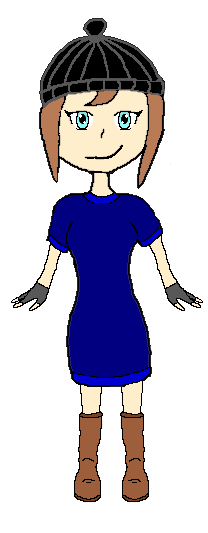
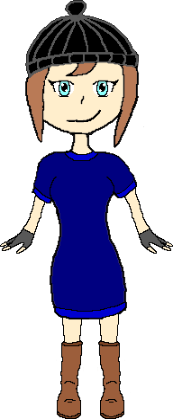
DA07

diff --git a/DA07/js/City.js b/DA07/js/City.js
@@ -4,6 +4,8 @@ function addBlock(x, y, ground){
     game.layer.setSize(64, 64);
     game.layer.setScale(2);
 }
+var x = 100;
+var y = 400;
 
 class City extends Phaser.Scene{
 
@@ -17,10 +19,10 @@ class City extends Phaser.Scene{
             this.city = this.BG1.create(200+(i*400), 300, 'cityBG');
             this.city.setScale(1/2);
         }
-        this.house = this.physics.add.sprite(600, 360, 'chouse');
+        this.house = this.physics.add.sprite(200, 360, 'chouse');
         this.physics.world.setBounds(0, 0, 1690, 600);
         this.cameras.main.setBounds(0, 0, 1600, 600);
-        this.boots = this.physics.add.sprite(100, 400, 'boots');
+        this.boots = this.physics.add.sprite(x, y, 'boots');
         this.boots.setScale(1/2);
         this.boots.setCollideWorldBounds(true);
         this.facing = "right";
@@ -31,17 +33,6 @@ class City extends Phaser.Scene{
         this.ground = this.physics.add.staticGroup();
         for(var i = 0; i < 1728/64; i++){
             this.layer = this.ground.create(32+(i*64), 568, 'brick');
-            this.layer.setSize(64, 64);
-            this.layer.setScale(2);
-        }
-        this.layer1 = this.ground.create(0, 550, 'brick')
-        this.layer1.setSize(64, 64);
-        this.layer1.setScale(2);
-        this.layer2 = this.ground.create(200, 500, 'brick')
-        this.layer2.setSize(64, 64);
-        this.layer2.setScale(2);
-        for(var i = 0; i < 2; i++){
-            this.layer = this.ground.create(400+(i*64), 400, 'brick');
             this.layer.setSize(64, 64);
             this.layer.setScale(2);
         }
@@ -85,12 +76,16 @@ class City extends Phaser.Scene{
             this.boots.setVelocityY(-500);
         }
         if(this.boots.x >= 1640){
+            x = 400;
+            y = 100;
             this.scene.start('Overworld');
         }
     }
     main(){
         if(this.interactKey.isDown){
-            this.scene.start('MainMenu');
+            x = this.boots.x;
+            y = this.boots.y;
+            this.scene.start('Building');
         }
     }
 }

diff --git a/DA07/js/Building.js b/DA07/js/Building.js
@@ -1,15 +1,15 @@
 "use strict";
 
-class Tent extends Phaser.Scene{
+class Building extends Phaser.Scene{
 
     constructor(){
-        super('Tent');
+        super('Building');
     }
 
     create() {
         //this.add.text(50, 100, "Congrats you have made it through the city and forest\nCome back next week for a content update", { font: '24px Arial', fill: '#000000' });
         //this.add.text(50, 400, "Enter house to go\nback to Main Menu", { font: '24px Arial', fill: '#000000' });
-        this.tent = this.add.image(400, 300, 'tin');
+        this.tent = this.add.image(400, 300, 'hin');
         this.ground = this.physics.add.staticGroup();
         this.physics.world.setBounds(0, 0, 800, 800);
         this.cameras.main.setBounds(0, 0, 800, 600);
@@ -33,7 +33,7 @@ class Tent extends Phaser.Scene{
             this.playerMovementManager();
         }
         if(this.boots.y > 700){
-            this.scene.start('Lake');
+            this.scene.start('City');
         }
         
 
@@ -85,5 +85,11 @@ class Tent extends Phaser.Scene{
         }else{
             this.boots.anims.play("boot_side", true);
         }
+    }
+    main(){
+        if(this.interactKey.isDown){
+           this.scene.start('MainMenu'); 
+        }
+        
     }
 }

diff --git a/DA07/js/Cave.js b/DA07/js/Cave.js
@@ -1,15 +1,15 @@
 "use strict";
 
-class Tent extends Phaser.Scene{
+class Cave extends Phaser.Scene{
 
     constructor(){
-        super('Tent');
+        super('Cave');
     }
 
     create() {
         //this.add.text(50, 100, "Congrats you have made it through the city and forest\nCome back next week for a content update", { font: '24px Arial', fill: '#000000' });
         //this.add.text(50, 400, "Enter house to go\nback to Main Menu", { font: '24px Arial', fill: '#000000' });
-        this.tent = this.add.image(400, 300, 'tin');
+        this.tent = this.add.image(400, 300, 'cin');
         this.ground = this.physics.add.staticGroup();
         this.physics.world.setBounds(0, 0, 800, 800);
         this.cameras.main.setBounds(0, 0, 800, 600);
@@ -33,7 +33,7 @@ class Tent extends Phaser.Scene{
             this.playerMovementManager();
         }
         if(this.boots.y > 700){
-            this.scene.start('Lake');
+            this.scene.start('Mountain');
         }
         
 
@@ -85,5 +85,11 @@ class Tent extends Phaser.Scene{
         }else{
             this.boots.anims.play("boot_side", true);
         }
+    }
+    main(){
+        if(this.interactKey.isDown){
+           this.scene.start('MainMenu'); 
+        }
+        
     }
 }

diff --git a/DA07/js/Forest.js b/DA07/js/Forest.js
@@ -4,6 +4,8 @@ function addBlock(x, y, ground){
     game.layer.setSize(64, 64);
     game.layer.setScale(2);
 }
+var x = 100;
+var y = 400;
 class Forest extends Phaser.Scene{
 
     constructor(){
@@ -18,10 +20,9 @@ class Forest extends Phaser.Scene{
             this.forest.setScale(1/2);
         }
         this.house = this.physics.add.sprite(500, 356, 'fhouse');
-        this.house.setScale(1/2);
         this.physics.world.setBounds(0, -200, 1690, 800);
         this.cameras.main.setBounds(0, 0, 1600, 600);
-        this.boots = this.physics.add.sprite(100, 400, 'boots');
+        this.boots = this.physics.add.sprite(x, y, 'boots');
         this.boots.setScale(1/2);
         this.boots.setCollideWorldBounds(true);
         this.facing = "right";
@@ -81,12 +82,16 @@ class Forest extends Phaser.Scene{
             this.boots.setVelocityY(-600);
         }
         if(this.boots.x >= 1640){
+            x = 100;
+            y = 400;
             this.scene.start('Overworld');
         }
     }
     main(){
         if(this.interactKey.isDown){
-            this.scene.start('MainMenu');
+            x = this.boots.x;
+            y = this.boots.y;
+            this.scene.start('Flower');
         }
     }
 }

diff --git a/DA07/js/Lake.js b/DA07/js/Lake.js
@@ -4,7 +4,8 @@ function addBlock(x, y, ground){
     game.layer.setSize(64, 64);
     game.layer.setScale(2);
 }
-
+var x = 100;
+var y = 400;
 class Lake extends Phaser.Scene{
 
     constructor(){
@@ -18,10 +19,9 @@ class Lake extends Phaser.Scene{
             this.lake.setScale(1/2);
         }
         this.house = this.physics.add.sprite(600, 360, 'lhouse');
-        this.house.setScale(1/2);
         this.physics.world.setBounds(0, 0, 1690, 600);
         this.cameras.main.setBounds(0, 0, 1600, 600);
-        this.boots = this.physics.add.sprite(100, 400, 'boots');
+        this.boots = this.physics.add.sprite(x, y, 'boots');
         this.boots.setScale(1/2);
         this.boots.setCollideWorldBounds(true);
         this.facing = "right";
@@ -75,11 +75,15 @@ class Lake extends Phaser.Scene{
             this.boots.setVelocityY(-600);
         }
         if(this.boots.x >= 1640){
+            x = 100;
+            y = 400;
             this.scene.start('Overworld');
         }
     }
     main(){
         if(this.interactKey.isDown){
+            x = this.boots.x;
+            y = this.boots.y;
             this.scene.start('Tent');
         }
     }

diff --git a/DA07/js/Preloader2.js b/DA07/js/Preloader2.js
@@ -27,7 +27,7 @@ class Preloader extends Phaser.Scene{
         this.load.image('grass', 'assets/Grass.png');
         this.load.image('brick', 'assets/Brick.png');
         this.load.image('sand', 'assets/Sand.png');
-        this.load.spritesheet('boots', 'assets/Boots walk.png', {frameWidth: 173, frameHeight: 419});
+        this.load.spritesheet('boots', 'assets/Bootswalk1.png', {frameWidth: 173, frameHeight: 419});
         this.load.image('girl', 'assets/Character.png');
         this.load.image('cityBG', 'assets/CityBG.png');
         this.load.image('forestBG', 'assets/ForestBG.png');
@@ -65,6 +65,12 @@ class Preloader extends Phaser.Scene{
         this.anims.create({
             key: "boot_side",
             frames: [ { key: 'boots', frame: 8 } ],
+            frameRate: 4,
+            repeat: -1
+        });
+        this.anims.create({
+            key: "boot_forward",
+            frames: [ { key: 'boots', frame: 9 } ],
             frameRate: 4,
             repeat: -1
         });

diff --git a/DA07/js/Flower.js b/DA07/js/Flower.js
@@ -1,15 +1,15 @@
 "use strict";
 
-class Tent extends Phaser.Scene{
+class Flower extends Phaser.Scene{
 
     constructor(){
-        super('Tent');
+        super('Flower');
     }
 
     create() {
         //this.add.text(50, 100, "Congrats you have made it through the city and forest\nCome back next week for a content update", { font: '24px Arial', fill: '#000000' });
         //this.add.text(50, 400, "Enter house to go\nback to Main Menu", { font: '24px Arial', fill: '#000000' });
-        this.tent = this.add.image(400, 300, 'tin');
+        this.tent = this.add.image(400, 300, 'fin');
         this.ground = this.physics.add.staticGroup();
         this.physics.world.setBounds(0, 0, 800, 800);
         this.cameras.main.setBounds(0, 0, 800, 600);
@@ -33,7 +33,7 @@ class Tent extends Phaser.Scene{
             this.playerMovementManager();
         }
         if(this.boots.y > 700){
-            this.scene.start('Lake');
+            this.scene.start('Forest');
         }
         
 

diff --git a/DA07/js/Mountain.js b/DA07/js/Mountain.js
@@ -4,6 +4,9 @@ function addBlock(x, y, ground){
     game.layer.setSize(64, 64);
     game.layer.setScale(2);
 }
+var x = 100;
+var y = 400;
+
 class Mountain extends Phaser.Scene{
 
     constructor(){
@@ -80,12 +83,16 @@ class Mountain extends Phaser.Scene{
             this.boots.setVelocityY(-600);
         }
         if( this.boots.x >= 1640){
+            x = 100;
+            y = 400;
             this.scene.start('Overworld');
         }
     }
     main(){
         if(this.interactKey.isDown){
-            this.scene.start('MainMenu');
+            x = this.boots.x;
+            y = this.boots.y;
+            this.scene.start('Cave');
         }
     }
 }

diff --git a/DA07/index.html b/DA07/index.html
@@ -18,6 +18,9 @@
 	<script type="text/javascript" src="js/Control.js"></script>
 	<script type="text/javascript" src="js/Overworld.js"></script>
 	<script type="text/javascript" src="js/Tent.js"></script>
+	<script type="text/javascript" src="js/Building.js"></script>
+	<script type="text/javascript" src="js/Flower.js"></script>
+	<script type="text/javascript" src="js/Cave.js"></script>
 	<script type="text/javascript" src="js/End.js"></script>
 	<!-- main.js must come last since it references the other ones. -->
 	<script type="text/javascript" src="js/main2.js"></script>

diff --git a/DA07/js/main2.js b/DA07/js/main2.js
@@ -40,6 +40,9 @@ game.scene.add( 'Mountain', new Mountain());
 game.scene.add( 'Overworld', new Overworld());
 game.scene.add('Control', new Control());
 game.scene.add('Tent', new Tent());
+game.scene.add('Building', new Building());
+game.scene.add('Flower', new Flower());
+game.scene.add('Cave', new Cave());
 game.scene.add('End', new End());
 //	Now start the Boot state.
 game.scene.start('Boot');

diff --git a/DA07/js/MainMenu2.js b/DA07/js/MainMenu2.js
@@ -11,7 +11,7 @@ class MainMenu extends Phaser.Scene {
         //	Ok, the Play Button has been clicked or touched, so let's stop the music (otherwise it'll carry on playing)
         music.stop();
         //	And start the actual game
-        this.scene.start('Tent');
+        this.scene.start('Overworld');
 
     }
     
